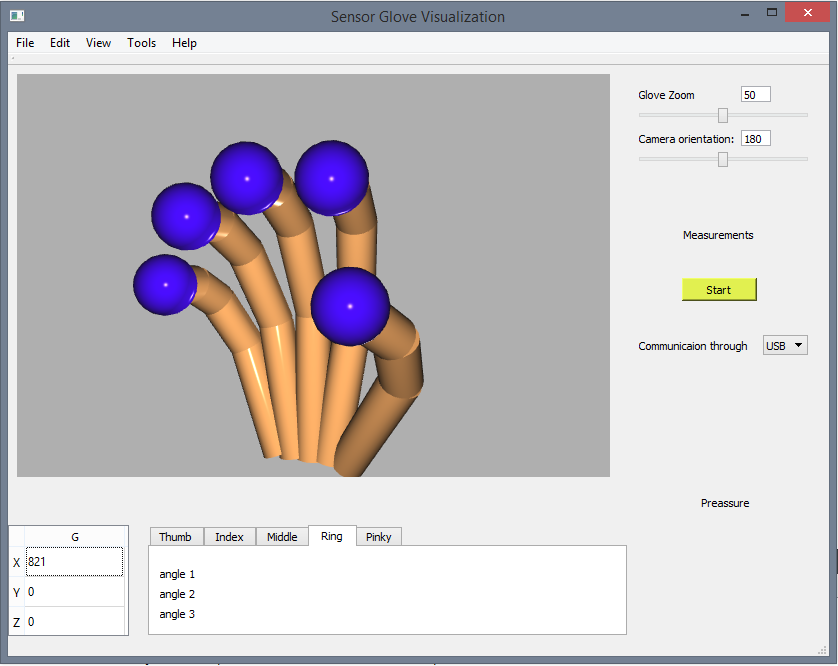
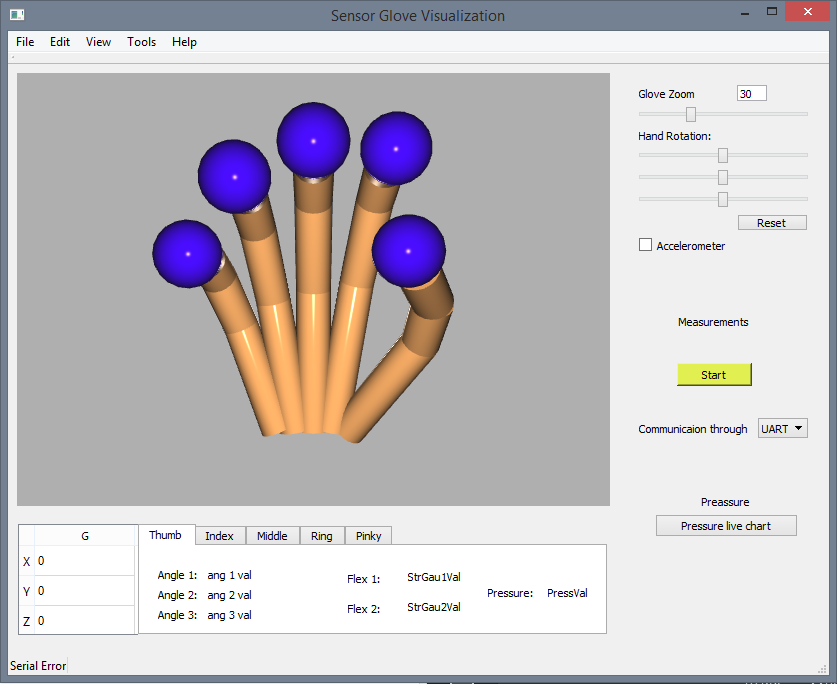
Dodano nowe zdjecia i opis badan

diff --git a/Dokumenty/Dokumentacja/dokumentacja.tex b/Dokumenty/Dokumentacja/dokumentacja.tex
@@ -64,14 +64,14 @@
 \end{itemize}
 %\subsection{Parametry}
 
-\begin{figure}[h]
+\begin{figure}[!htb]
 \centering
 \includegraphics[width=0.8\textwidth]{images/fsr-400.jpg}
 \caption{Układ pomiarowy oraz wykresy zależności napięć i rezystancji od przyłożonej siły dla czujnika FSR-400}
 \label{fig:wykresy_fsr-400}
 \end{figure}
 
-\begin{table}[h]
+\begin{table}[!htb]
 \centering
 \begin{tabularx}
 {\textwidth}{ |X|X| }
@@ -87,7 +87,7 @@ Wymiary zewnętrzne & 7,6 x 7,6 x 0,4 mm \\
 \end{table}
 
 
-\begin{table}[h]
+\begin{table}[!htb]
 \centering
 \begin{tabularx}
 {\textwidth}{ |X|X| }
@@ -107,7 +107,7 @@ Szerokość & 6,35 mm \\
 \end{table}
 
 
-\begin{table}[h]
+\begin{table}[!htb]
 \centering
 \begin{tabularx}
 {\textwidth}{ |X|X| }
@@ -132,7 +132,7 @@ Wymiary płytki & 37 x 15 mm \\
 Rękawica sensoryczna zbiera dane z trzech palców prawej ręki. Czujniki ugięcia przyszyto na zewnętrznej stronie dłoni [rys. \ref{fig:gotowa}].
  Przetestowano kilka ustawień czujników i takie zdaje się najlepiej spełniać założenia, czyli poprawnie odczytywać zgięcia konkretnych stawów palców, nie ograniczając przy tym ruchów dłoni. Czujniki nacisku przymocowano na opuszkach [rys. \ref{fig:gotowa2}]. Zostały one przyklejone klejem błyskawicznym. Przymocowano również na wierzchu dłoni 2 listwy żeńskie do wpięcia płytki Discovery F3, aby móc pobierać dane z akcelerometru i wykrywać obrót ręki [rys. \ref{fig:gotowa}].
  
-\begin{figure}[h]
+\begin{figure}[!htb]
 \centering
 \begin{subfigure}{.5\textwidth}
 	\centering
@@ -150,15 +150,8 @@ Rękawica sensoryczna zbiera dane z trzech palców prawej ręki. Czujniki ugięc
 \label{fig:gotowa_rekawica}
 \end{figure}
 
-\begin{figure}[h]
-\centering
-\includegraphics[width=0.65\textwidth]{images/rekawica2.jpg}
-\caption{Zdjęcie rękawicy w fazie montażu (aktualny rozkład czujników jest zmieniony)}
-\label{fig:rekawica2}
-\end{figure}
-
 \subsection{Połączenie z komputerem}
-Płytka STM32F3DISCOVERY potrafi połączyć się z komputerem za pomocą interfejsu USB i Bluetooth.
+Płytka STM32F3DISCOVERY potrafi połączyć się z komputerem za pomocą interfejsu USB i UART. Zrezygnowano z połączenia za pomocą Bluetooth ze względu na zbyt małą szybkość przesyłania oraz niepoprawne funkcjonowanie modułu Bluetooth komputera.
 
 \subsection{Odczyt danych z czujników}
 \subsubsection{Tensometry} \label{tensometry}
@@ -186,14 +179,14 @@ y[n] - \beta y[n-1] = (1-\beta)x[n]
 \end{equation}
 
 
-\begin{figure}[ht!]
+\begin{figure}[htb!]
 \centering
 \includegraphics[width=0.8\textwidth]{images/aktualnyinterfejsgraficzny.png}
 \caption{Aktualny interfejs graficzny}
 \label{fig:wds}
 \end{figure}
 
-\begin{figure}[ht!]
+\begin{figure}[htb!]
 \centering
 \begin{subfigure}{.5\textwidth}
 	\centering
@@ -211,91 +204,80 @@ y[n] - \beta y[n-1] = (1-\beta)x[n]
 \label{fig:testy}
 \end{figure}
 
+\newpage
 \section{Badania z wykorzystaniem rękawicy}
-Rękawica sensoryczna pozwala na zbieranie pomiarów i próbę jak najdokładniejszego wykrycia konkretnych gestów ludzkiej dłoni na podstawie odczytów z czujników. Takie badania mogą być wykorzystywane m.in. przy rozwoju protez biomedycznych. 
+Rękawica sensoryczna pozwala na zbieranie pomiarów i próbę jak najdokładniejszego wykrycia konkretnych gestów ludzkiej dłoni na podstawie odczytów z czujników. Takie badania mogą być wykorzystywane m.in. przy rozwoju protez biomedycznych. Takie gesty mogą posłużyć sterowaniu robotem lub systemem automatyki (np. budynkowej). Przyporządkowanie gestu do wykonywanej czynności daje możliwość kontroli systemu.\\
+Wykrywanie gestów sprowadza się do ustawienia odpowiednich progów na niektórych czujnikach ugięcia i nacisku, po których przekroczeniu sygnalizuje się wykrycie gestu.\\
+
+\subsection{Dane pomiarowe}
+Zbadano poprawność pozyskiwania i wysyłania danych pomiarowych za pomocą terminala (Realterm) oraz programu STMStudio. Wyniki przedstawiono na rysunkach (\ref{fig:term}, \ref{fig:stmstudio}).\\
+\begin{figure}
+\centering
+\includegraphics[width=\textwidth]{./images/terminal.png}
+\caption{Wysyłane dane wyświetlone na terminalu \label{fig:term}}
+\end{figure}
+\begin{figure}
+\centering
+\includegraphics[width=\textwidth]{./images/stmstudio.png}
+\caption{Pobierane dane wyświetlone w STMStudio\label{fig:stmstudio}}
+\end{figure}
+
 \subsection{Przykładowe gesty}
-\paragraph{Pięść}
-rys. \ref{fig:piesc}
-\paragraph{Otwarta dłoń}
-rys. \ref{fig:otwarta_dlon}
-\paragraph{Wskazywanie}
-rys. \ref{fig:wskazywanie}
-\paragraph{Zetknięcie palców}
-rys. \ref{fig:zetkniecie_palcow}
-
-\begin{figure}[ht!]
+Badane gesty zostały przedstawione na rysunkach (\ref{fig:Fist}, \ref{fig:Palm}, \ref{fig:OK}, \ref{fig:Peace}, \ref{fig:Point}).
+\begin{figure}[!htb]
 \centering
-\begin{subfigure}{.5\textwidth}
-	\centering
-%	\includegraphics[width=.9\textwidth]{images/piesc.png}
-	\caption{Zdjęcie przykładowego gestu}
-	\label{fig:piesc_foto}
-\end{subfigure}%
-\begin{subfigure}{.5\textwidth}
-	\centering
-%	\includegraphics[width=.9\textwidth]{images/piesc2.png}
-	\caption{Wizualizacja w 3D}
-	\label{fig:piesc_3D}
-\end{subfigure}
-\caption{Gest zamkniętej pięści}
-\label{fig:piesc}
+    \begin{subfigure}{.5\textwidth}
+    \centering
+      \includegraphics[width=0.9\textwidth]{./images/Fist.jpg}
+     \end{subfigure}%
+    \begin{subfigure}{.5\textwidth}
+    \centering
+      \includegraphics[width=0.9\textwidth]{./images/FistQt.png}
+     \end{subfigure}
+    \caption{Gest -- zaciśnięta pięść \label{fig:Fist}}
+\end{figure}
+\begin{figure}[!htb]
+\centering
+    \begin{subfigure}{.5\textwidth}
+      \includegraphics[width=0.9\textwidth]{./images/Palm.jpg}
+     \end{subfigure}%
+    \begin{subfigure}{.5\textwidth}
+      \includegraphics[width=0.9\textwidth]{./images/PalmQt.png}
+     \end{subfigure}
+    \caption{Gest -- otwarta dłoń \label{fig:Palm}}
+\end{figure}
+\begin{figure}[!htb]
+\centering
+    \begin{subfigure}{.5\textwidth}
+      \includegraphics[width=0.9\textwidth]{./images/OK.jpg}
+     \end{subfigure}%
+    \begin{subfigure}{.5\textwidth}
+      \includegraphics[width=0.9\textwidth]{./images/OKQt.png}
+     \end{subfigure}
+    \caption{Gest -- OK \label{fig:OK}}
+\end{figure}
+\begin{figure}[!htb]
+\centering
+    \begin{subfigure}{.5\textwidth}
+      \includegraphics[width=0.9\textwidth]{./images/Peace.jpg}
+     \end{subfigure}%
+    \begin{subfigure}{.5\textwidth}
+      \includegraphics[width=0.9\textwidth]{./images/PeaceQt.png}
+     \end{subfigure}
+    \caption{Gest -- pacyfka\label{fig:Peace}}
+\end{figure}
+\begin{figure}[!htb]
+\centering
+    \begin{subfigure}{.5\textwidth}
+      \includegraphics[width=0.9\textwidth]{./images/Point.jpg}
+     \end{subfigure}%
+    \begin{subfigure}{.5\textwidth}
+      \includegraphics[width=0.9\textwidth]{./images/PointQt.png}
+     \end{subfigure}
+    \caption{Gest -- wskazywanie palcem \label{fig:Point}}
 \end{figure}
 
-\begin{figure}[ht!]
-\centering
-\begin{subfigure}{.5\textwidth}
-	\centering
-%	\includegraphics[width=.9\textwidth]{images/otwarta_dlon.png}
-	\caption{Zdjęcie przykładowego gestu}
-	\label{fig:otwarta_dlon_foto}
-\end{subfigure}%
-\begin{subfigure}{.5\textwidth}
-	\centering
-%	\includegraphics[width=.9\textwidth]{images/otwarta_dlon2.png}
-	\caption{Wizualizacja w 3D}
-	\label{fig:otwarta_dlon_3D}
-\end{subfigure}
-\caption{Gest otwartej dłoni}
-\label{fig:otwarta_dlon}
-\end{figure}
-
-\begin{figure}[ht!]
-\centering
-\begin{subfigure}{.5\textwidth}
-	\centering
-%	\includegraphics[width=.9\textwidth]{images/wskazywanie.png}
-	\caption{Zdjęcie przykładowego gestu}
-	\label{fig:wskazywanie_foto}
-\end{subfigure}%
-\begin{subfigure}{.5\textwidth}
-	\centering
-%	\includegraphics[width=.9\textwidth]{images/wskazywanie2.png}
-	\caption{Wizualizacja w 3D}
-	\label{fig:wskazywanie_3D}
-\end{subfigure}
-\caption{Gest pokazywania palcem wskazującym}
-\label{fig:wskazywanie}
-\end{figure}
-
-\begin{figure}[ht!]
-\centering
-\begin{subfigure}{.5\textwidth}
-	\centering
-%	\includegraphics[width=.9\textwidth]{images/zetkniecie_palcow.png}
-	\caption{Zdjęcie przykładowego gestu}
-	\label{fig:zetkniecie_palcow_foto}
-\end{subfigure}%
-\begin{subfigure}{.5\textwidth}
-	\centering
-%	\includegraphics[width=.9\textwidth]{images/zetkniecie_palcow2.png}
-	\caption{Wizualizacja w 3D}
-	\label{fig:zetkniecie_palcow_3D}
-\end{subfigure}
-\caption{Gest zetknięcia palca wskazującego i kciuka}
-\label{fig:zetkniecie_palcow}
-\end{figure}
-
-
+\newpage
 \section{Podsumowanie}
 \subsection{Problemy podczas konstrukcji}
 \begin{itemize}
